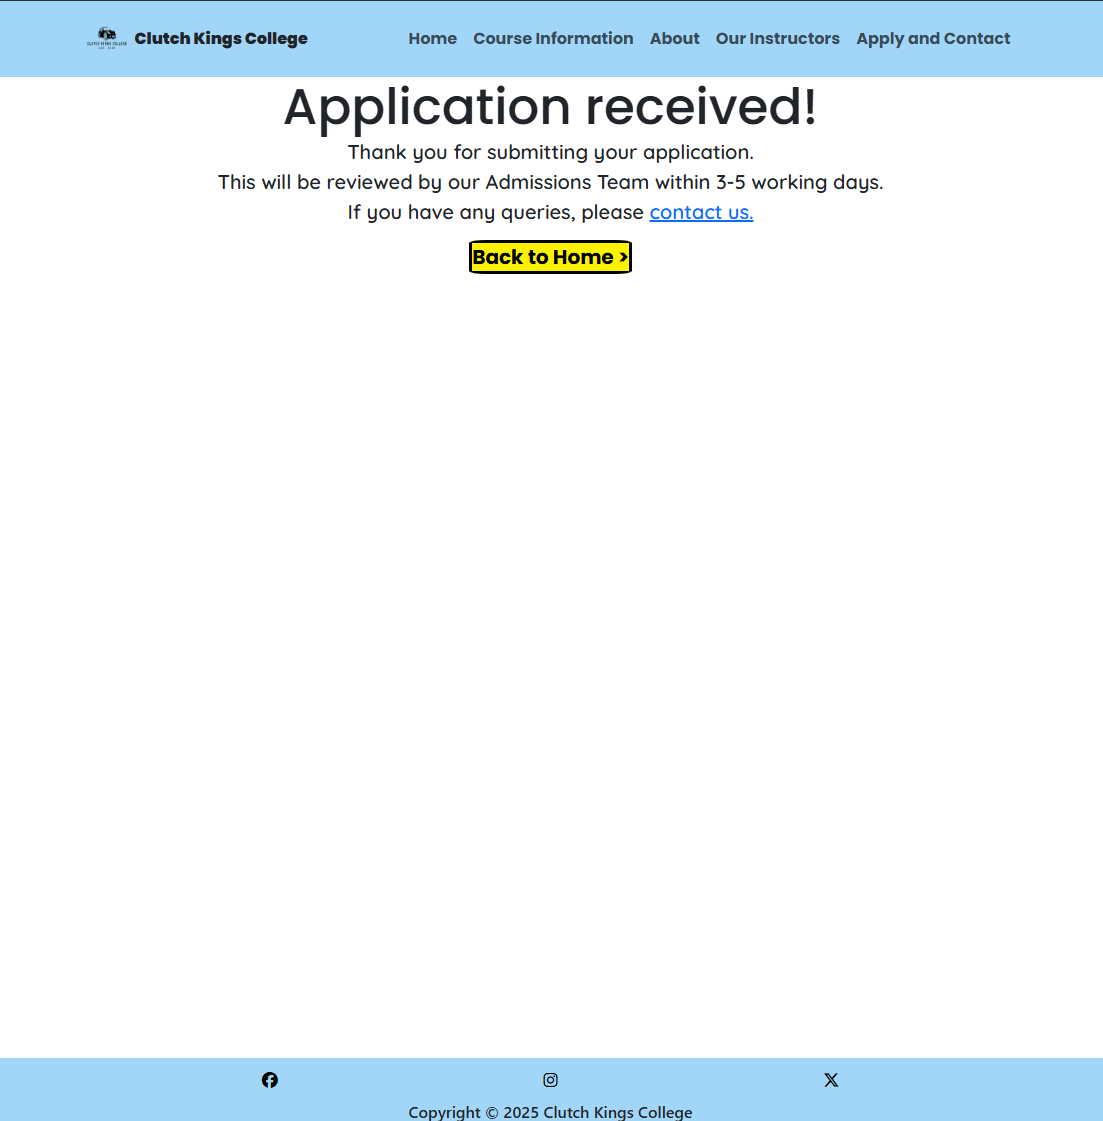
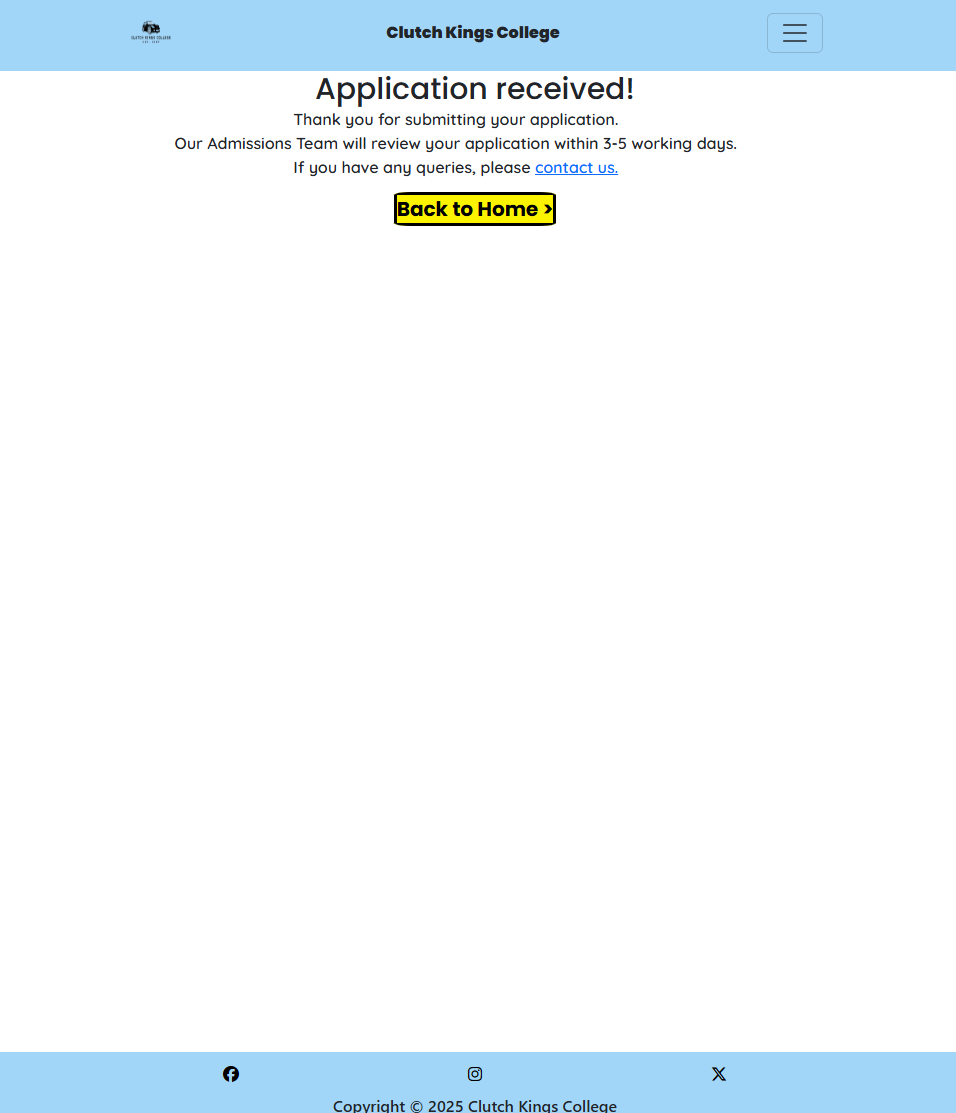
Update thank you page

diff --git a/thank-you.html b/thank-you.html
@@ -74,7 +74,7 @@
             <h2>Application received!</h2>
             <p class="button-space">Thank you for submitting your application.
                 <br>
-                This will be reviewed by our Admissions Team within 3-5 working days.
+                Our Admissions Team will review your application within 3-5 working days.
                 <br>
                 If you have any queries, please <a href=apply-contact.html>contact us.</a>
             </p>

diff --git a/README.md b/README.md
@@ -31,7 +31,7 @@
             + [Sub-navigation Bar](#sub-navigation-bar)
             + [Buttons](#buttons)
             + [Footer](#footer)
-            + [Thank You Page](#thank-you)
+            + [Thank You Page](#thank-you-page)
             + [404 Error Page](#404-error-page)
    * [Surface](#surface)
         + [Design](#design)
